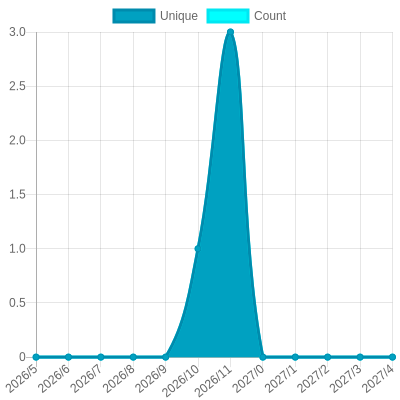
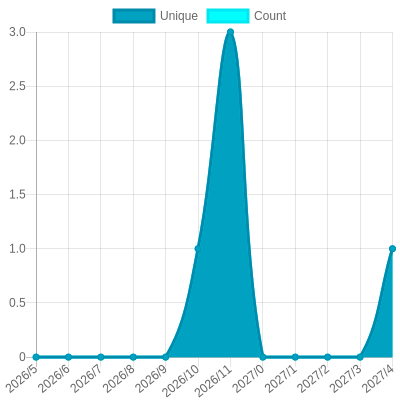
Update views

Changed region(s): [[0.9, 0.6, 0.99, 0.9]]

diff --git a/readme/851166147/year.md b/readme/851166147/year.md
@@ -23,10 +23,10 @@
 			<code>2026/5/1</code>
 		</td>
 		<td>
-			<code>0</code>
+			<code>1</code>
 		</td>
 		<td>
-			<code>0</code>
+			<code>1</code>
 		</td>
 	</tr>
 	<tr>
@@ -153,7 +153,7 @@
 </table>
 
 </details>
-<small><i>Last updated on 2026/6/1 2:52 AM UTC</i></small>
+<small><i>Last updated on 2026/6/1 11:14 AM UTC</i></small>
 
 ## ✂Copy and 📋 Paste
 ### SVG Badge

diff --git a/README.md b/README.md
@@ -629,7 +629,7 @@ The project created and maintained by [gayanvoice](https://github.com/gayanvoice
 	</tr>
 </table>
 
-<small><i>Last updated on 2026/6/1 2:54 AM UTC</i></small>
+<small><i>Last updated on 2026/6/1 11:16 AM UTC</i></small>
 
 ## ✂Copy and 📋 Paste
 ### Total Views Badge

diff --git a/readme/1026082356/year.md b/readme/1026082356/year.md
@@ -153,7 +153,7 @@
 </table>
 
 </details>
-<small><i>Last updated on 2026/6/1 2:53 AM UTC</i></small>
+<small><i>Last updated on 2026/6/1 11:15 AM UTC</i></small>
 
 ## ✂Copy and 📋 Paste
 ### SVG Badge

diff --git a/readme/1046246696/year.md b/readme/1046246696/year.md
@@ -153,7 +153,7 @@
 </table>
 
 </details>
-<small><i>Last updated on 2026/6/1 2:53 AM UTC</i></small>
+<small><i>Last updated on 2026/6/1 11:15 AM UTC</i></small>
 
 ## ✂Copy and 📋 Paste
 ### SVG Badge

diff --git a/readme/1056270131/year.md b/readme/1056270131/year.md
@@ -153,7 +153,7 @@
 </table>
 
 </details>
-<small><i>Last updated on 2026/6/1 2:53 AM UTC</i></small>
+<small><i>Last updated on 2026/6/1 11:16 AM UTC</i></small>
 
 ## ✂Copy and 📋 Paste
 ### SVG Badge

diff --git a/readme/1082506834/year.md b/readme/1082506834/year.md
@@ -153,7 +153,7 @@
 </table>
 
 </details>
-<small><i>Last updated on 2026/6/1 2:53 AM UTC</i></small>
+<small><i>Last updated on 2026/6/1 11:16 AM UTC</i></small>
 
 ## ✂Copy and 📋 Paste
 ### SVG Badge

diff --git a/readme/1089383661/year.md b/readme/1089383661/year.md
@@ -153,7 +153,7 @@
 </table>
 
 </details>
-<small><i>Last updated on 2026/6/1 2:53 AM UTC</i></small>
+<small><i>Last updated on 2026/6/1 11:16 AM UTC</i></small>
 
 ## ✂Copy and 📋 Paste
 ### SVG Badge

diff --git a/readme/508028497/year.md b/readme/508028497/year.md
@@ -153,7 +153,7 @@
 </table>
 
 </details>
-<small><i>Last updated on 2026/6/1 2:51 AM UTC</i></small>
+<small><i>Last updated on 2026/6/1 11:13 AM UTC</i></small>
 
 ## ✂Copy and 📋 Paste
 ### SVG Badge

diff --git a/readme/513423299/year.md b/readme/513423299/year.md
@@ -153,7 +153,7 @@
 </table>
 
 </details>
-<small><i>Last updated on 2026/6/1 2:51 AM UTC</i></small>
+<small><i>Last updated on 2026/6/1 11:13 AM UTC</i></small>
 
 ## ✂Copy and 📋 Paste
 ### SVG Badge

diff --git a/readme/515932472/year.md b/readme/515932472/year.md
@@ -153,7 +153,7 @@
 </table>
 
 </details>
-<small><i>Last updated on 2026/6/1 2:51 AM UTC</i></small>
+<small><i>Last updated on 2026/6/1 11:13 AM UTC</i></small>
 
 ## ✂Copy and 📋 Paste
 ### SVG Badge

diff --git a/readme/526965576/year.md b/readme/526965576/year.md
@@ -153,7 +153,7 @@
 </table>
 
 </details>
-<small><i>Last updated on 2026/6/1 2:51 AM UTC</i></small>
+<small><i>Last updated on 2026/6/1 11:13 AM UTC</i></small>
 
 ## ✂Copy and 📋 Paste
 ### SVG Badge

diff --git a/readme/555288473/year.md b/readme/555288473/year.md
@@ -153,7 +153,7 @@
 </table>
 
 </details>
-<small><i>Last updated on 2026/6/1 2:50 AM UTC</i></small>
+<small><i>Last updated on 2026/6/1 11:12 AM UTC</i></small>
 
 ## ✂Copy and 📋 Paste
 ### SVG Badge
